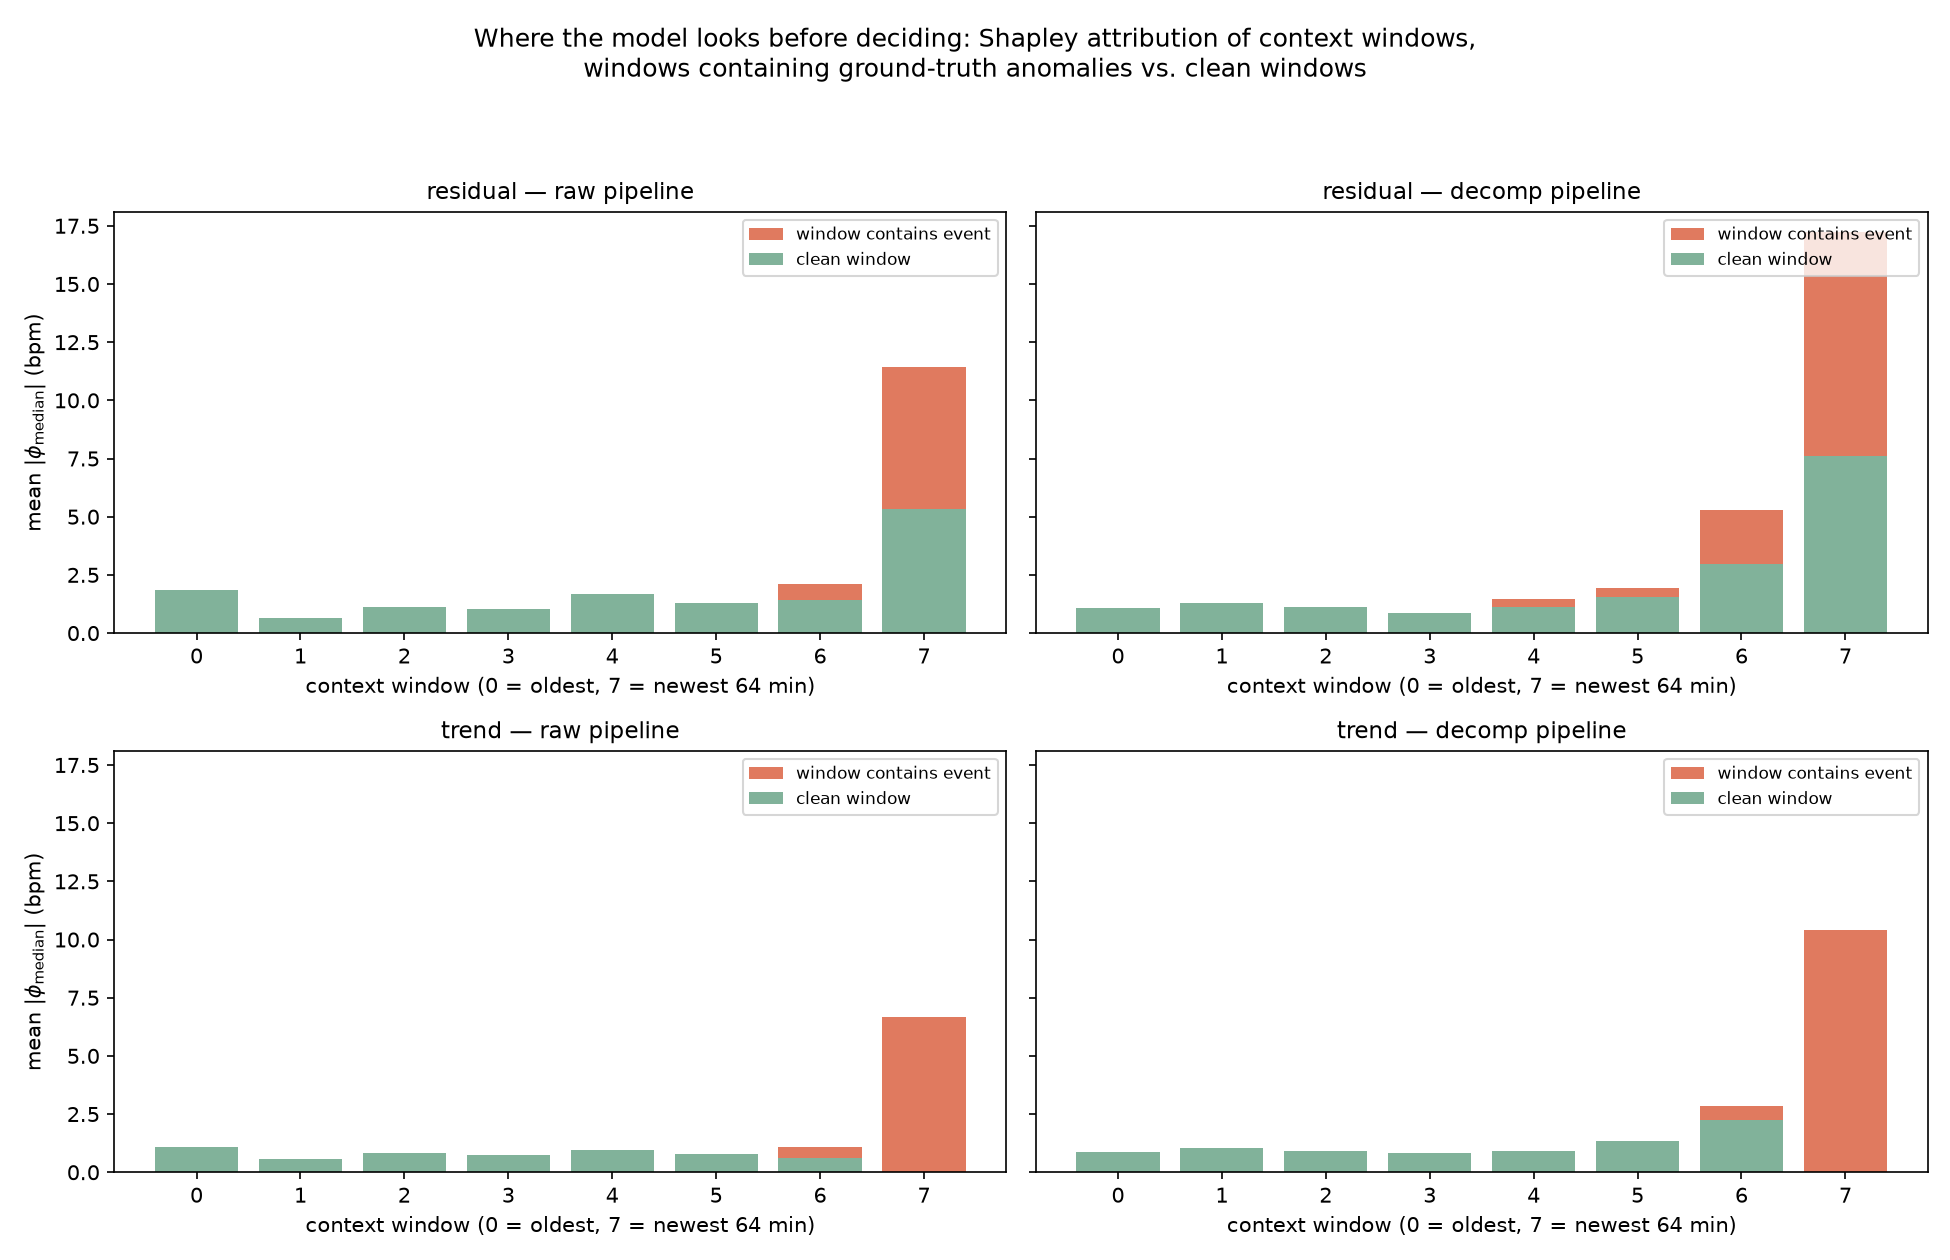
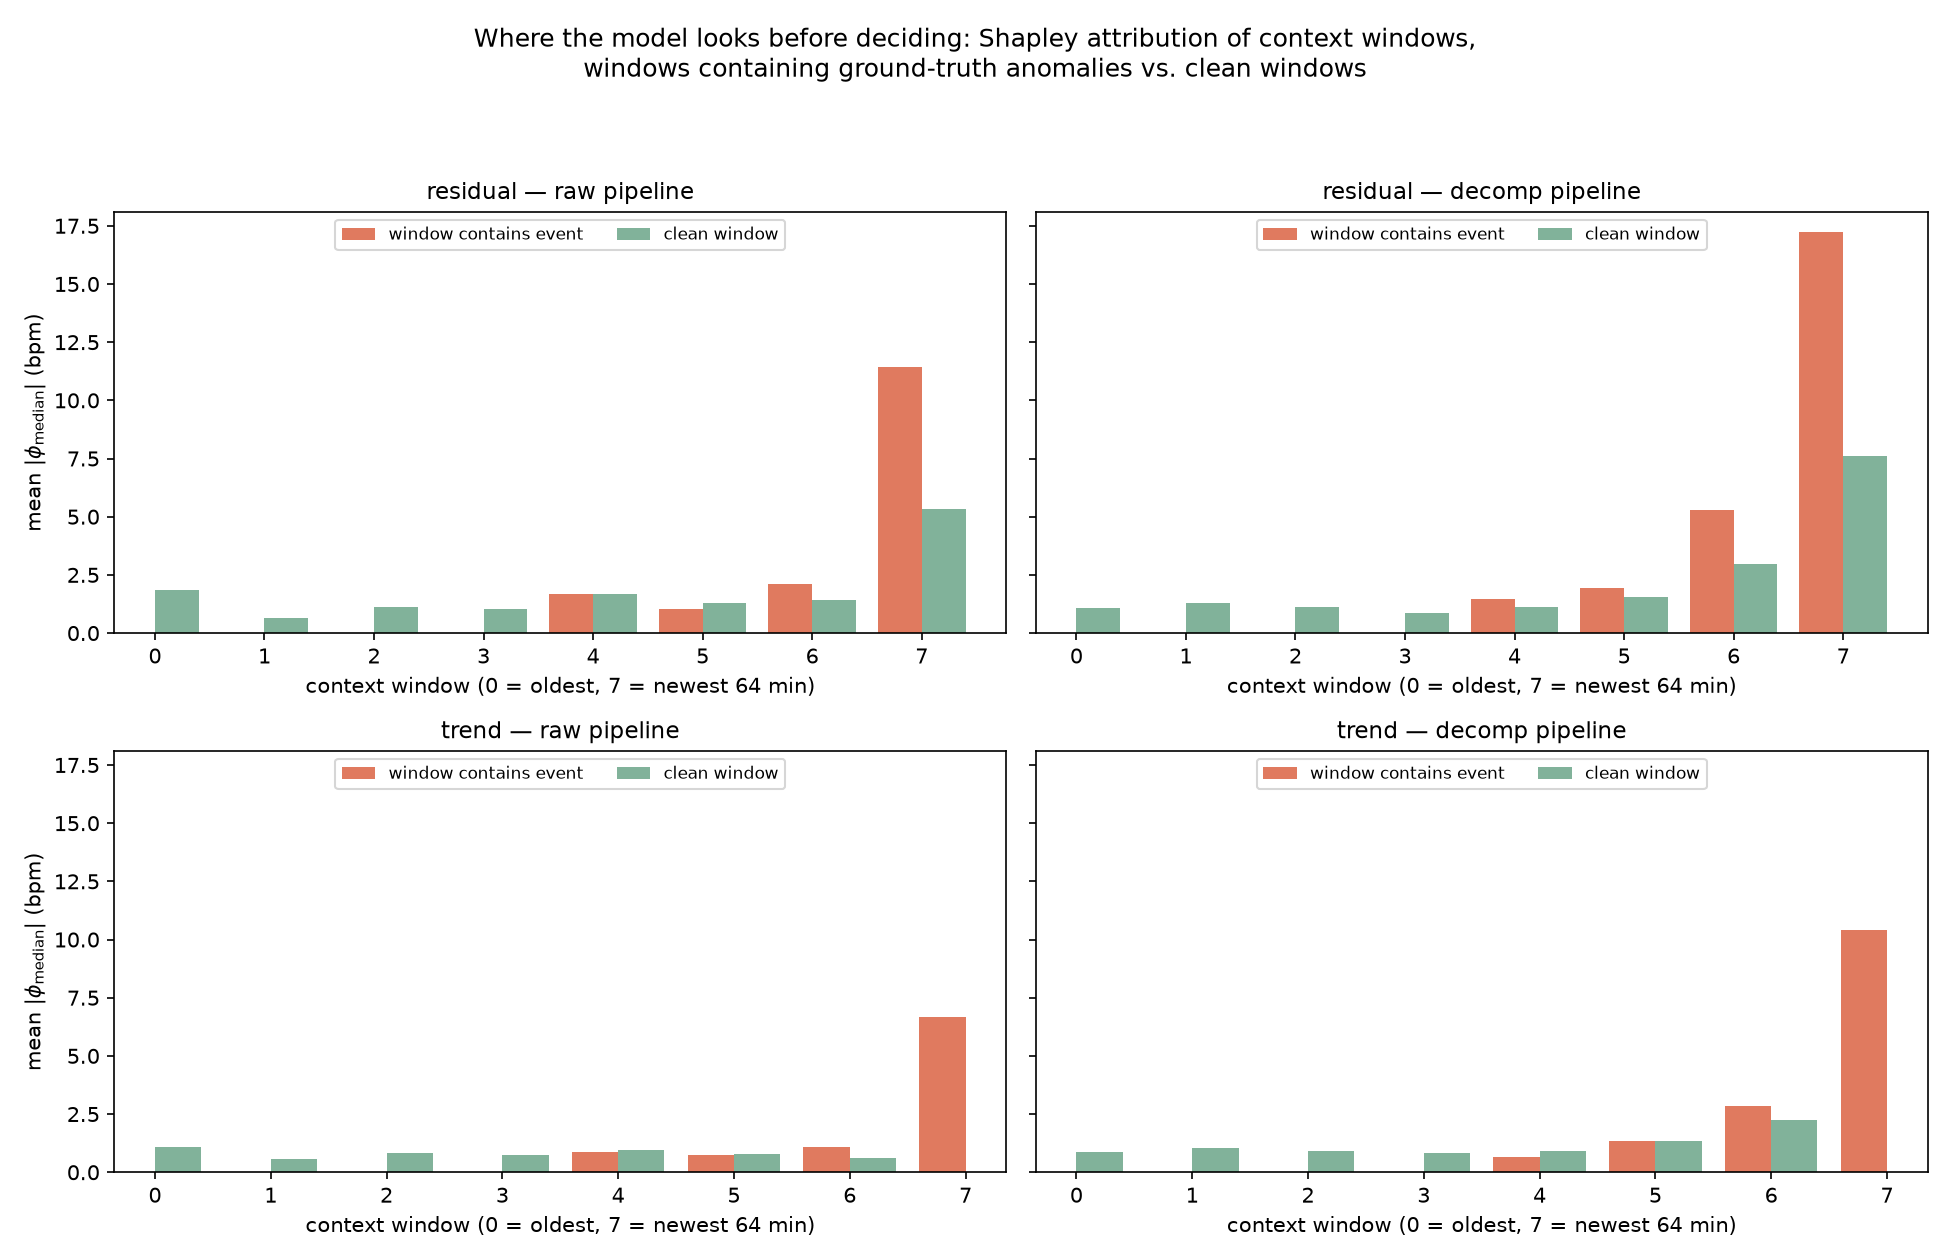
plot_event_attribution: fixed bug with combined pillars

diff --git a/src/05_analysis/plot_event_attribution.py b/src/05_analysis/plot_event_attribution.py
@@ -138,15 +138,18 @@ def main() -> None:
             ax = axes[i][j]
             prof = next(p for s, pl, p in per_position if s == scen and pl == pipe)
             x = np.arange(len(prof))
+            width = 0.4
             if True in prof.columns:
-                ax.bar(x, prof[True], color=colors["event"], label="window contains event")
+                ax.bar(x - width / 2, prof[True], width=width, color=colors["event"],
+                       label="window contains event")
             if False in prof.columns:
-                ax.bar(x, prof[False], color=colors["clean"], label="clean window")
+                ax.bar(x + width / 2, prof[False], width=width, color=colors["clean"],
+                       label="clean window")
             ax.set_title(f"{scen} — {pipe} pipeline", fontsize=11)
             ax.set_xlabel("context window (0 = oldest, 7 = newest 64 min)")
             if j == 0:
                 ax.set_ylabel(r"mean $|\phi_{\mathrm{median}}|$ (bpm)")
-            ax.legend(fontsize=8)
+            ax.legend(fontsize=8, loc="upper center", ncol=2)
             ax.set_xticks(x)
     fig.suptitle("Where the model looks before deciding: Shapley attribution of context windows,\n"
                  "windows containing ground-truth anomalies vs. clean windows",
